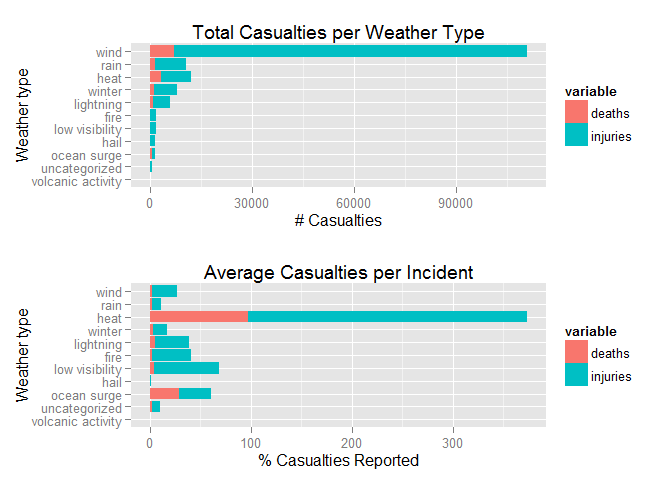
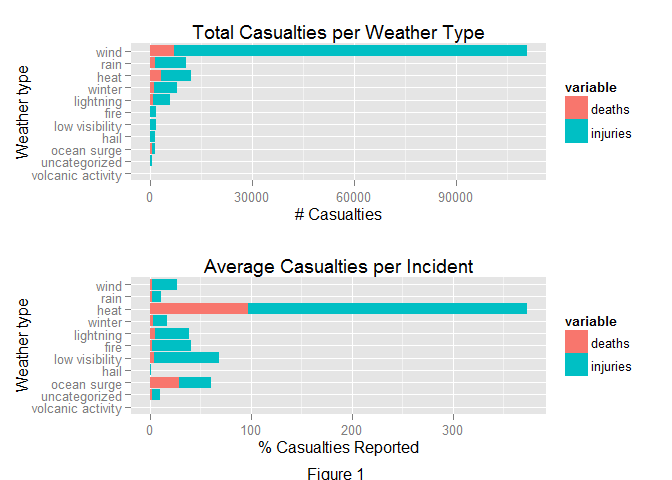
Added synopsis and answers to question 2

diff --git a/Project.html b/Project.html
@@ -64,9 +64,10 @@ img {
 </div>
 
 
-<div id="executive-summary" class="section level2">
-<h2>Executive Summary</h2>
+<div id="synopsis-of-study-results" class="section level2">
+<h2>Synopsis of Study Results</h2>
 <p>This study U.S. National Oceanic and Atmospheric Administration’s (NOAA) storm database. This database tracks characteristics of major storms and weather events in the United States, including when and where they occur, as well as estimates of any fatalities, injuries, and property damage.</p>
+<p>Wind events, which include tornadoes and hurricanes, are by the far the most harmful in aggregate, causing over 100,000 injuries and 90 deaths over the course of this study. Though less frequent, severe heat events have the highest incidence of deaths and injuries per event. This study finds that severe rain and wind events are by far the most costly in terms of dollars spent to replace property and crop damage.</p>
 </div>
 <div id="questions-this-study-considers" class="section level2">
 <h2>Questions this study considers</h2>
@@ -80,11 +81,11 @@ img {
 <p>This study was done using the following tools, including OS and Programming language versions</p>
 <p>The study was conducted on a 64-bit Windows 7 machine with 4 cores.</p>
 <p>R language was R version 3.1.1 (2014-07-10)</p>
-<p>For publishing to <code>rbups.com</code>, I used RStudio version 0.98.1103</p>
+<p>For publishing to <code>rpubs.com</code>, I used RStudio version 0.98.1103</p>
 <p>The full project may be found on Github at <code>https://github.com/gregoryg/05-reproducible-research-assignment-2</code></p>
 </div>
-<div id="processing-the-data-set" class="section level2">
-<h2>Processing the data set</h2>
+<div id="data-processing" class="section level2">
+<h2>Data Processing</h2>
 <div id="set-libraries-used-in-this-analysis" class="section level3">
 <h3>Set libraries used in this analysis</h3>
 <pre class="r"><code>library(stringr)
@@ -92,54 +93,7 @@ library(lubridate)
 library(sqldf)
 library(ggplot2)
 library(reshape2)
-library(gridExtra)
-## multiplot(), for creating very flexible panel plots using ggplot2
-## it is taken from Cookbook for R http://www.cookbook-r.com/Graphs/Multiple_graphs_on_one_page_(ggplot2)/
-# Multiple plot function
-#
-# ggplot objects can be passed in ..., or to plotlist (as a list of ggplot objects)
-# - cols:   Number of columns in layout
-# - layout: A matrix specifying the layout. If present, 'cols' is ignored.
-#
-# If the layout is something like matrix(c(1,2,3,3), nrow=2, byrow=TRUE),
-# then plot 1 will go in the upper left, 2 will go in the upper right, and
-# 3 will go all the way across the bottom.
-#
-multiplot &lt;- function(..., plotlist=NULL, file, cols=1, layout=NULL) {
-  library(grid)
-
-  # Make a list from the ... arguments and plotlist
-  plots &lt;- c(list(...), plotlist)
-
-  numPlots = length(plots)
-
-  # If layout is NULL, then use 'cols' to determine layout
-  if (is.null(layout)) {
-    # Make the panel
-    # ncol: Number of columns of plots
-    # nrow: Number of rows needed, calculated from # of cols
-    layout &lt;- matrix(seq(1, cols * ceiling(numPlots/cols)),
-                    ncol = cols, nrow = ceiling(numPlots/cols))
-  }
-
- if (numPlots==1) {
-    print(plots[[1]])
-
-  } else {
-    # Set up the page
-    grid.newpage()
-    pushViewport(viewport(layout = grid.layout(nrow(layout), ncol(layout), widths=unit(800, &quot;points&quot;), heights=unit(800, &quot;points&quot;))))
-
-    # Make each plot, in the correct location
-    for (i in 1:numPlots) {
-      # Get the i,j matrix positions of the regions that contain this subplot
-      matchidx &lt;- as.data.frame(which(layout == i, arr.ind = TRUE))
-
-      print(plots[[i]], vp = viewport(layout.pos.row = matchidx$row,
-                                      layout.pos.col = matchidx$col))
-    }
-  }
-}</code></pre>
+library(gridExtra)</code></pre>
 </div>
 <div id="loading-the-data" class="section level3">
 <h3>Loading the data</h3>
@@ -177,7 +131,7 @@ if (!file.exists(dsetrds)) {
 <p>To assist in date analysis, we will convert dates to POSIXct format</p>
 <pre class="r"><code>if(!RDSloaded)
     d$BEGIN_UTC &lt;- mdy(str_extract(d$BGN_DATE, &quot;[^ ]+&quot;))</code></pre>
-<p>The manual entry nature of the data causes huge difficulties in categorizing the weather events. For example, you will find high wind events entered in completely arbitrary ways, mixing terminology, abbreviations, upper and lower case etc. (<code>thunderstorm</code>, <code>gusty thundertorm wind</code>, <code>gusty wind/rain</code>, <code>marine tstm wind</code>). We are going to attempt to categorize the most impactful events by looking for common words and abbreviations in a relative handful of weather categories.</p>
+<p>The manual entry nature of the data causes huge difficulties in categorizing the weather events. For example, you will find high wind events entered in completely arbitrary ways, mixing terminology, abbreviations, upper and lower case etc. (<code>thunderstorm</code>, <code>gusty thunderstorm wind</code>, <code>gusty wind/rain</code>, <code>marine tstm wind</code>). We are going to attempt to categorize the most impactful events by looking for common words and abbreviations in a relative handful of weather categories.</p>
 <pre class="r"><code>if (!RDSloaded) {
     generateEvent &lt;- function(evt) {
         evt &lt;- tolower(evt)
@@ -196,7 +150,7 @@ if (!file.exists(dsetrds)) {
     }
     d$weatherCategory &lt;- mapply(generateEvent, d$EVTYPE)
 }</code></pre>
-<p>For purporses of this study, USA is defined as the 50 states in the continental US, plus District of Columbia, Hawaii and Alaska. territories, protectorates, and military regions are excluded</p>
+<p>For purposes of this study, USA is defined as the 50 states in the continental US, plus District of Columbia, Hawaii and Alaska. territories, protectorates, and military regions are excluded</p>
 <pre class="r"><code>if (!RDSloaded)
     d$isUSA &lt;- mapply( function(st) st %in% state.abb, d$STATE )</code></pre>
 <p>In the interest of performance, we will save the data frame as an R data set (<code>.RDS</code> file). After reading, immediately subset the data to only those records originating in the US.</p>
@@ -210,22 +164,35 @@ d &lt;- d[d$isUSA == TRUE,]</code></pre>
 </div>
 <div id="results" class="section level2">
 <h2>Results</h2>
-<ol style="list-style-type: decimal">
-<li>Across the United States, which types of events (as indicated in the EVTYPE variable) are most harmful with respect to population health?</li>
-</ol>
+<div id="question-1-across-the-united-states-which-types-of-events-as-indicated-in-the-evtype-variable-are-most-harmful-with-respect-to-population-health" class="section level3">
+<h3>Question 1: Across the United States, which types of events (as indicated in the EVTYPE variable) are most harmful with respect to population health?</h3>
 <p>Refer to the result of the query below, which groups US mortalities and injuries by weather category.</p>
 <pre class="r"><code>harm &lt;- sqldf(&quot;select sum(FATALITIES) as deaths, sum(INJURIES) as injuries, weatherCategory,count(*) as sumrecs from d group by weatherCategory &quot;)
 
 harm$weatherCategory &lt;- factor(harm$weatherCategory, levels=harm[order(harm$injuries), &quot;weatherCategory&quot;])
-harm &lt;- sqldf(&quot;select *,(injuries/sumrecs)*100 as pctInjuriesPerEvent from harm&quot;)
 
 ## ggplot loves long form, which means a type of normalization using melt()
 hdat &lt;- melt(harm, id.vars=c(&quot;weatherCategory&quot;, &quot;sumrecs&quot;), measure.vars=c(&quot;deaths&quot;, &quot;injuries&quot;))
 hdat &lt;- sqldf(&quot;select *,(value/sumrecs)*100 as pctPerEvent from hdat&quot;)
 plot1 &lt;- ggplot(hdat, aes(x=weatherCategory, y=value, fill=variable)) + geom_bar(stat=&quot;identity&quot;) + coord_flip() + ggtitle(&quot;Total Casualties per Weather Type&quot;) + xlab(&quot;Weather type&quot;) + ylab(&quot;# Casualties&quot;)
 plot2 &lt;- ggplot(hdat, aes(x=weatherCategory, y=pctPerEvent, fill=variable)) + geom_bar(stat=&quot;identity&quot;) + coord_flip() + ggtitle(&quot;Average Casualties per Incident&quot;) + xlab(&quot;Weather type&quot;) + ylab(&quot;% Casualties Reported&quot;)
-grid.arrange(plot1, plot2, ncol=1)</code></pre>
[1 lines of base64/hex data omitted]
+grid.arrange(plot1, plot2, ncol=1, sub=&quot;Figure 1&quot;)</code></pre>
[1 lines of base64/hex data omitted]
+<p>Wind events – including tornadoes and hurricanes – have the highest impact on health in terms of absolute numbers reported. Heat events – including fires and heat waves – show the highest percentage of casualties per event.</p>
+</div>
+<div id="question-2-across-the-united-states-which-types-of-events-have-the-greatest-economic-consequences" class="section level3">
+<h3>Question 2: Across the United States, which types of events have the greatest economic consequences?</h3>
+<pre class="r"><code>crop &lt;- sqldf(&quot;select sum(pdmgUSD) as propertyDmgUSD, sum(cdmgUSD) as cropDmgUSD, count(*) as sumrecs, weatherCategory from d group by weatherCategory&quot;)
+crop &lt;- sqldf(&quot;select *, propertyDmgUSD + cropDmgUSD as totalCost from crop&quot;)
+## create long form on crop vs property damage columns
+cdat &lt;- melt(crop, id.vars=c(&quot;weatherCategory&quot;, &quot;sumrecs&quot;, &quot;totalCost&quot;), measure.vars=c(&quot;propertyDmgUSD&quot;, &quot;cropDmgUSD&quot;))
+cdat &lt;- sqldf(&quot;select *, (value/sumrecs) as costPerEvent from cdat&quot;)
+cdat$weatherCategory &lt;- factor(cdat$weatherCategory, levels=cdat[order(cdat$propertyDmgUSD + cdat$cropDmgUSD), &quot;weatherCategory&quot;])
+plot3 &lt;- ggplot(cdat, aes(x=weatherCategory, y=value/1000000000, fill=variable)) + geom_bar(stat=&quot;identity&quot;) + coord_flip() + ggtitle(&quot;Damages per Weather Type&quot;) + xlab(&quot;Weather type&quot;) + ylab(&quot;Damages in Billions USD&quot;)
+grid.arrange(plot3, ncol=1, sub=&quot;Figure 2&quot;)</code></pre>
[1 lines of base64/hex data omitted]
+<p>Rain and wind events are the most costly weather types, both in terms of property and damage to crops. There is a very significant crop damage cost in the “uncategorized” weather events. This bears examination, and possibly some re-evaluation of the categorization used in this study.</p>
+</div>
 </div>
 <div id="appendix" class="section level2">
 <h2>Appendix</h2>

diff --git a/Project.md b/Project.md
@@ -1,11 +1,19 @@
 # Assessing Health and Economic Impact of Weather Events
-## Executive Summary
+## Synopsis of Study Results
 
 This study U.S. National Oceanic and Atmospheric Administration's
 (NOAA) storm database. This database tracks characteristics of major
 storms and weather events in the United States, including when and
 where they occur, as well as estimates of any fatalities, injuries,
 and property damage.
+
+Wind events, which include tornadoes and hurricanes, are by the far
+the most harmful in aggregate, causing over 100,000 injuries and 90
+deaths over the course of this study.  Though less frequent, severe
+heat events have the highest incidence of deaths and injuries per
+event.  This study finds that severe rain and wind events are by far
+the most costly in terms of dollars spent to replace property and crop
+damage.
 
 ## Questions this study considers
 
@@ -19,11 +27,11 @@ The study was conducted on a 64-bit Windows 7 machine with 4 cores.
 
 R language was R version 3.1.1 (2014-07-10)
 
-For publishing to `rbups.com`, I used RStudio version 0.98.1103
+For publishing to `rpubs.com`, I used RStudio version 0.98.1103
 
 The full project may be found on Github at `https://github.com/gregoryg/05-reproducible-research-assignment-2`
 
-## Processing the data set
+## Data Processing
 ### Set libraries used in this analysis
 
 ```r
@@ -33,53 +41,6 @@ library(sqldf)
 library(ggplot2)
 library(reshape2)
 library(gridExtra)
-## multiplot(), for creating very flexible panel plots using ggplot2
-## it is taken from Cookbook for R http://www.cookbook-r.com/Graphs/Multiple_graphs_on_one_page_(ggplot2)/
-# Multiple plot function
-#
-# ggplot objects can be passed in ..., or to plotlist (as a list of ggplot objects)
-# - cols:   Number of columns in layout
-# - layout: A matrix specifying the layout. If present, 'cols' is ignored.
-#
-# If the layout is something like matrix(c(1,2,3,3), nrow=2, byrow=TRUE),
-# then plot 1 will go in the upper left, 2 will go in the upper right, and
-# 3 will go all the way across the bottom.
-#
-multiplot <- function(..., plotlist=NULL, file, cols=1, layout=NULL) {
-  library(grid)
-
-  # Make a list from the ... arguments and plotlist
-  plots <- c(list(...), plotlist)
-
-  numPlots = length(plots)
-
-  # If layout is NULL, then use 'cols' to determine layout
-  if (is.null(layout)) {
-    # Make the panel
-    # ncol: Number of columns of plots
-    # nrow: Number of rows needed, calculated from # of cols
-    layout <- matrix(seq(1, cols * ceiling(numPlots/cols)),
-                    ncol = cols, nrow = ceiling(numPlots/cols))
-  }
-
- if (numPlots==1) {
-    print(plots[[1]])
-
-  } else {
-    # Set up the page
-    grid.newpage()
-    pushViewport(viewport(layout = grid.layout(nrow(layout), ncol(layout), widths=unit(800, "points"), heights=unit(800, "points"))))
-
-    # Make each plot, in the correct location
-    for (i in 1:numPlots) {
-      # Get the i,j matrix positions of the regions that contain this subplot
-      matchidx <- as.data.frame(which(layout == i, arr.ind = TRUE))
-
-      print(plots[[i]], vp = viewport(layout.pos.row = matchidx$row,
-                                      layout.pos.col = matchidx$col))
-    }
-  }
-}
 ```
 ### Loading the data
 
@@ -144,7 +105,7 @@ The manual entry nature of the data causes huge difficulties in
 categorizing the weather events.  For example, you will find high wind
 events entered in completely arbitrary ways, mixing terminology,
 abbreviations, upper and lower case etc. (`thunderstorm`, `gusty
-thundertorm wind`, `gusty wind/rain`, `marine tstm wind`).  We are
+thunderstorm wind`, `gusty wind/rain`, `marine tstm wind`).  We are
 going to attempt to categorize the most impactful events by looking
 for common words and abbreviations in a relative handful of weather
 categories.
@@ -172,7 +133,7 @@ if (!RDSloaded) {
 ```
 
 
-For purporses of this study, USA is defined as the 50 states in the
+For purposes of this study, USA is defined as the 50 states in the
 continental US, plus District of Columbia, Hawaii and
 Alaska. territories, protectorates, and military regions are excluded
 
@@ -198,7 +159,7 @@ d <- d[d$isUSA == TRUE,]
 ```
 
 ## Results
-  1. Across the United States, which types of events (as indicated in the EVTYPE variable) are most harmful with respect to population health?
+### Question 1: Across the United States, which types of events (as indicated in the EVTYPE variable) are most harmful with respect to population health?
 
 Refer to the result of the query below, which groups US mortalities and injuries by weather category.
 
@@ -207,17 +168,43 @@ Refer to the result of the query below, which groups US mortalities and injuries
 harm <- sqldf("select sum(FATALITIES) as deaths, sum(INJURIES) as injuries, weatherCategory,count(*) as sumrecs from d group by weatherCategory ")
 
 harm$weatherCategory <- factor(harm$weatherCategory, levels=harm[order(harm$injuries), "weatherCategory"])
-harm <- sqldf("select *,(injuries/sumrecs)*100 as pctInjuriesPerEvent from harm")
 
 ## ggplot loves long form, which means a type of normalization using melt()
 hdat <- melt(harm, id.vars=c("weatherCategory", "sumrecs"), measure.vars=c("deaths", "injuries"))
 hdat <- sqldf("select *,(value/sumrecs)*100 as pctPerEvent from hdat")
 plot1 <- ggplot(hdat, aes(x=weatherCategory, y=value, fill=variable)) + geom_bar(stat="identity") + coord_flip() + ggtitle("Total Casualties per Weather Type") + xlab("Weather type") + ylab("# Casualties")
 plot2 <- ggplot(hdat, aes(x=weatherCategory, y=pctPerEvent, fill=variable)) + geom_bar(stat="identity") + coord_flip() + ggtitle("Average Casualties per Incident") + xlab("Weather type") + ylab("% Casualties Reported")
-grid.arrange(plot1, plot2, ncol=1)
+grid.arrange(plot1, plot2, ncol=1, sub="Figure 1")
 ```
 
 ![](Project_files/figure-html/findHarmfulEvents-1.png) 
+
+Wind events -- including tornadoes and hurricanes -- have the highest
+impact on health in terms of absolute numbers reported.  Heat events
+-- including fires and heat waves -- show the highest percentage of
+casualties per event.
+
+### Question 2: Across the United States, which types of events have the greatest economic consequences?
+
+
+```r
+crop <- sqldf("select sum(pdmgUSD) as propertyDmgUSD, sum(cdmgUSD) as cropDmgUSD, count(*) as sumrecs, weatherCategory from d group by weatherCategory")
+crop <- sqldf("select *, propertyDmgUSD + cropDmgUSD as totalCost from crop")
+## create long form on crop vs property damage columns
+cdat <- melt(crop, id.vars=c("weatherCategory", "sumrecs", "totalCost"), measure.vars=c("propertyDmgUSD", "cropDmgUSD"))
+cdat <- sqldf("select *, (value/sumrecs) as costPerEvent from cdat")
+cdat$weatherCategory <- factor(cdat$weatherCategory, levels=cdat[order(cdat$propertyDmgUSD + cdat$cropDmgUSD), "weatherCategory"])
+plot3 <- ggplot(cdat, aes(x=weatherCategory, y=value/1000000000, fill=variable)) + geom_bar(stat="identity") + coord_flip() + ggtitle("Damages per Weather Type") + xlab("Weather type") + ylab("Damages in Billions USD")
+grid.arrange(plot3, ncol=1, sub="Figure 2")
+```
+
+![](Project_files/figure-html/unnamed-chunk-1-1.png) 
+
+Rain and wind events are the most costly weather types, both in terms
+of property and damage to crops.  There is a very significant crop
+damage cost in the "uncategorized" weather events.  This bears
+examination, and possibly some re-evaluation of the categorization
+used in this study.  
 
 ## Appendix
 ### Utility functions
